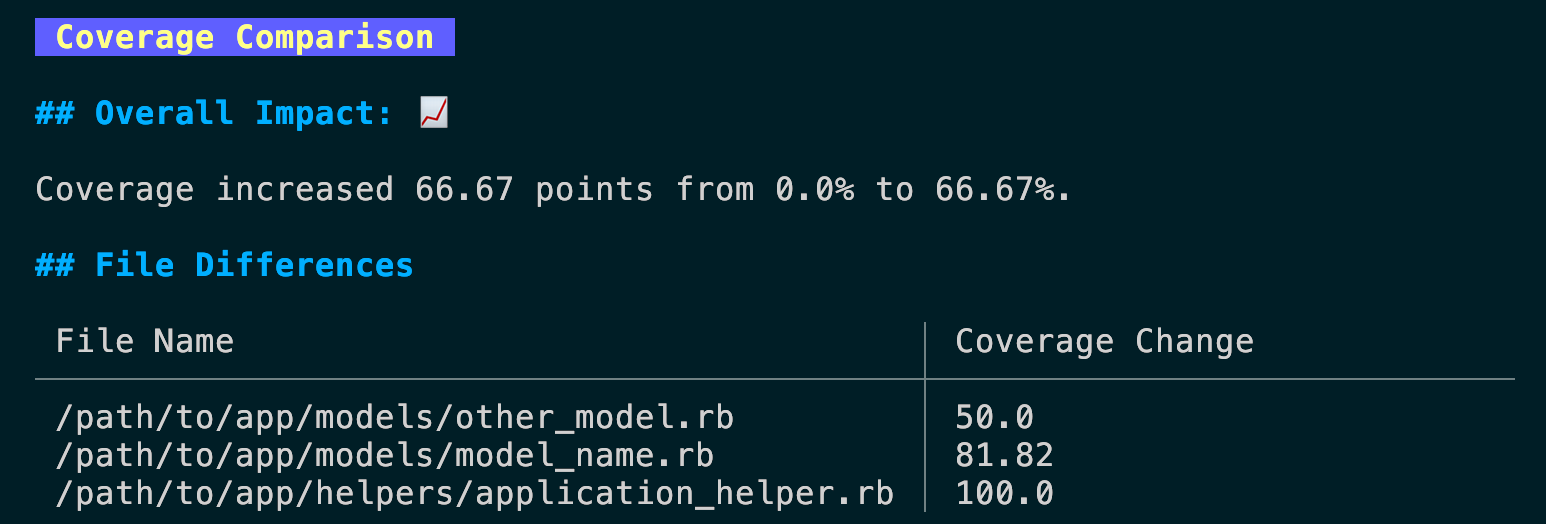
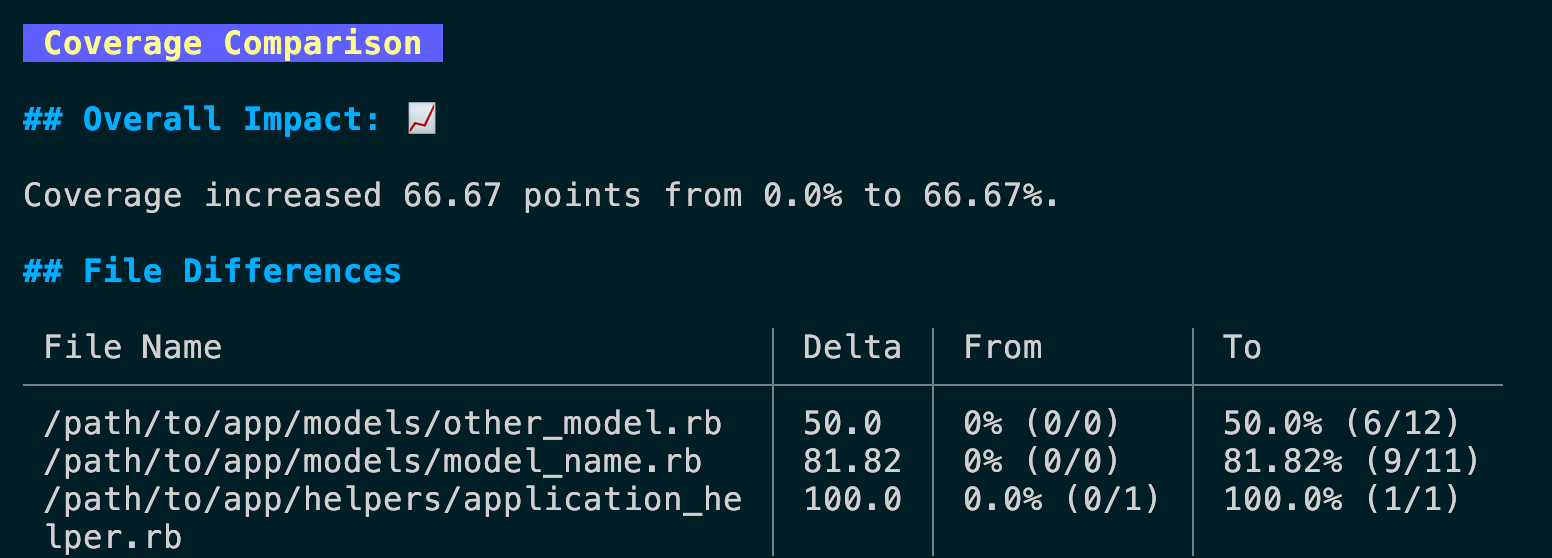
Update the markdown formatter to show the coverage before and after per file

diff --git a/test/simplecov/compare/formatter/markdown_formatter_test.rb b/test/simplecov/compare/formatter/markdown_formatter_test.rb
@@ -18,15 +18,42 @@ module Simplecov
             big_decrease = Mocktail.of(FileComparison)
             stubs { big_decrease.filename }.with { "big_decrease.rb" }
             stubs { big_decrease.lines_coverage_delta_points }.with { -20 }
+            stubs { big_decrease.original_lines_covered_percent }.with { 50 }
+            stubs { big_decrease.original_num_covered_lines }.with { 5 }
+            stubs { big_decrease.original_num_relevant_lines }.with { 10 }
+            stubs { big_decrease.new_lines_covered_percent }.with { 30 }
+            stubs { big_decrease.new_num_covered_lines }.with { 3 }
+            stubs { big_decrease.new_num_relevant_lines }.with { 10 }
+
             small_decrease = Mocktail.of(FileComparison)
             stubs { small_decrease.filename }.with { "small_decrease.rb" }
             stubs { small_decrease.lines_coverage_delta_points }.with { -3 }
+            stubs { small_decrease.original_lines_covered_percent }.with { 53 }
+            stubs { small_decrease.original_num_covered_lines }.with { 53 }
+            stubs { small_decrease.original_num_relevant_lines }.with { 100 }
+            stubs { small_decrease.new_lines_covered_percent }.with { 50 }
+            stubs { small_decrease.new_num_covered_lines }.with { 50 }
+            stubs { small_decrease.new_num_relevant_lines }.with { 100 }
+
             small_increase = Mocktail.of(FileComparison)
             stubs { small_increase.filename }.with { "small_increase.rb" }
             stubs { small_increase.lines_coverage_delta_points }.with { 7 }
+            stubs { small_increase.original_lines_covered_percent }.with { 0 }
+            stubs { small_increase.original_num_covered_lines }.with { 0 }
+            stubs { small_increase.original_num_relevant_lines }.with { 100 }
+            stubs { small_increase.new_lines_covered_percent }.with { 7 }
+            stubs { small_increase.new_num_covered_lines }.with { 7 }
+            stubs { small_increase.new_num_relevant_lines }.with { 100 }
+
             big_increase = Mocktail.of(FileComparison)
             stubs { big_increase.filename }.with { "big_increase.rb" }
             stubs { big_increase.lines_coverage_delta_points }.with { 25 }
+            stubs { big_increase.original_lines_covered_percent }.with { 25 }
+            stubs { big_increase.original_num_covered_lines }.with { 1 }
+            stubs { big_increase.original_num_relevant_lines }.with { 4 }
+            stubs { big_increase.new_lines_covered_percent }.with { 50 }
+            stubs { big_increase.new_num_covered_lines }.with { 2 }
+            stubs { big_increase.new_num_relevant_lines }.with { 4 }
 
             stubs { comparison.file_differences }.with { [big_increase, small_decrease, big_decrease, small_increase] }
 
@@ -39,12 +66,12 @@ module Simplecov
 
               ## File Differences
 
-              | File Name | Coverage Change |
-              | --------- | --------------- |
-              | big_decrease.rb | -20 |
-              | small_decrease.rb | -3 |
-              | small_increase.rb | 7 |
-              | big_increase.rb | 25 |
+              | File Name | Delta | From | To |
+              | --------- | ----- | ---- | -- |
+              | big_decrease.rb | -20 | 50% (5/10) | 30% (3/10) |
+              | small_decrease.rb | -3 | 53% (53/100) | 50% (50/100) |
+              | small_increase.rb | 7 | 0% (0/100) | 7% (7/100) |
+              | big_increase.rb | 25 | 25% (1/4) | 50% (2/4) |
 
 
             MARKDOWN

diff --git a/test/simplecov/compare/file_comparison_test.rb b/test/simplecov/compare/file_comparison_test.rb
@@ -239,6 +239,12 @@ module Simplecov
 
           assert_equal 50, comparison.original_lines_covered_percent
         end
+
+        it "is 0 with no base file" do
+          comparison = FileComparison.new(nil, to: nil)
+
+          assert_equal 0, comparison.original_lines_covered_percent
+        end
       end
 
       describe "#new_lines_covered_percent" do
@@ -249,6 +255,12 @@ module Simplecov
           comparison = FileComparison.new(nil, to: other)
 
           assert_equal 75, comparison.new_lines_covered_percent
+        end
+
+        it "is 0 with no comparison file" do
+          comparison = FileComparison.new(nil, to: nil)
+
+          assert_equal 0, comparison.new_lines_covered_percent
         end
       end
 
@@ -261,6 +273,12 @@ module Simplecov
 
           assert_equal 33, comparison.original_num_relevant_lines
         end
+
+        it "is 0 with no base file" do
+          comparison = FileComparison.new(nil, to: nil)
+
+          assert_equal 0, comparison.original_num_relevant_lines
+        end
       end
 
       describe "#original_num_covered_lines" do
@@ -271,6 +289,12 @@ module Simplecov
           comparison = FileComparison.new(base, to: nil)
 
           assert_equal 17, comparison.original_num_covered_lines
+        end
+
+        it "is 0 with no base file" do
+          comparison = FileComparison.new(nil, to: nil)
+
+          assert_equal 0, comparison.original_num_covered_lines
         end
       end
 
@@ -283,6 +307,12 @@ module Simplecov
 
           assert_equal 42, comparison.new_num_relevant_lines
         end
+
+        it "is 0 with no comparison file" do
+          comparison = FileComparison.new(nil, to: nil)
+
+          assert_equal 0, comparison.new_num_relevant_lines
+        end
       end
 
       describe "#new_num_covered_lines" do
@@ -294,8 +324,13 @@ module Simplecov
 
           assert_equal 71, comparison.new_num_covered_lines
         end
-      end
 
+        it "is 0 with no comparison file" do
+          comparison = FileComparison.new(nil, to: nil)
+
+          assert_equal 0, comparison.new_num_covered_lines
+        end
+      end
     end
   end
 end

diff --git a/lib/simplecov/compare/formatter/markdown_formatter.rb b/lib/simplecov/compare/formatter/markdown_formatter.rb
@@ -58,8 +58,8 @@ module Simplecov
             <<~FILE_DIFF
               ## File Differences
 
-              | File Name | Coverage Change |
-              | --------- | --------------- |
+              | File Name | Delta | From | To |
+              | --------- | ----- | ---- | -- |
               #{file_differences_table_contents(result_set_comparison)}
             FILE_DIFF
           else
@@ -76,7 +76,10 @@ module Simplecov
             .file_differences
             .sort_by { _1.lines_coverage_delta_points }
             .each_with_object(+"") do |file_difference, output|
-              output << "| #{file_difference.filename} | #{file_difference.lines_coverage_delta_points} |\n"
+              output << "| #{file_difference.filename} "\
+                "| #{file_difference.lines_coverage_delta_points} "\
+                "| #{file_difference.original_lines_covered_percent}% (#{file_difference.original_num_covered_lines}/#{file_difference.original_num_relevant_lines}) "\
+                "| #{file_difference.new_lines_covered_percent}% (#{file_difference.new_num_covered_lines}/#{file_difference.new_num_relevant_lines}) |\n"
             end
         end
       end

diff --git a/lib/simplecov/compare/file_comparison.rb b/lib/simplecov/compare/file_comparison.rb
@@ -42,26 +42,38 @@ module Simplecov
       end
 
       def original_lines_covered_percent
+        return 0 if @base.nil?
+
         @base.lines_covered_percent
       end
 
       def original_num_relevant_lines
+        return 0 if @base.nil?
+
         @base.num_relevant_lines
       end
 
       def original_num_covered_lines
+        return 0 if @base.nil?
+
         @base.num_covered_lines
       end
 
       def new_lines_covered_percent
+        return 0 if @other.nil?
+
         @other.lines_covered_percent
       end
 
       def new_num_relevant_lines
+        return 0 if @other.nil?
+
         @other.num_relevant_lines
       end
 
       def new_num_covered_lines
+        return 0 if @other.nil?
+
         @other.num_covered_lines
       end
     end

diff --git a/test/simplecov/compare_test.rb b/test/simplecov/compare_test.rb
@@ -14,11 +14,11 @@ describe Simplecov::Compare do
 
         ## File Differences
 
-        | File Name | Coverage Change |
-        | --------- | --------------- |
-        | /path/to/app/models/other_model.rb | 50.0 |
-        | /path/to/app/models/model_name.rb | 81.82 |
-        | /path/to/app/helpers/application_helper.rb | 100.0 |
+        | File Name | Delta | From | To |
+        | --------- | ----- | ---- | -- |
+        | /path/to/app/models/other_model.rb | 50.0 | 0% (0/0) | 50.0% (6/12) |
+        | /path/to/app/models/model_name.rb | 81.82 | 0% (0/0) | 81.82% (9/11) |
+        | /path/to/app/helpers/application_helper.rb | 100.0 | 0.0% (0/1) | 100.0% (1/1) |
 
 
       EXPECTED_OUTPUT

diff --git a/CHANGELOG.md b/CHANGELOG.md
@@ -1,5 +1,13 @@
 ## Current release (in development)
 
+* Markdown formatter shows the coverage before and after per file.
+
+  *Kevin Murphy*
+
+* Expose the number of relevant and covered lines per file.
+
+  *Kevin Murphy*
+
 * Add instructions about running on command line.
 
   *Kevin Murphy*
